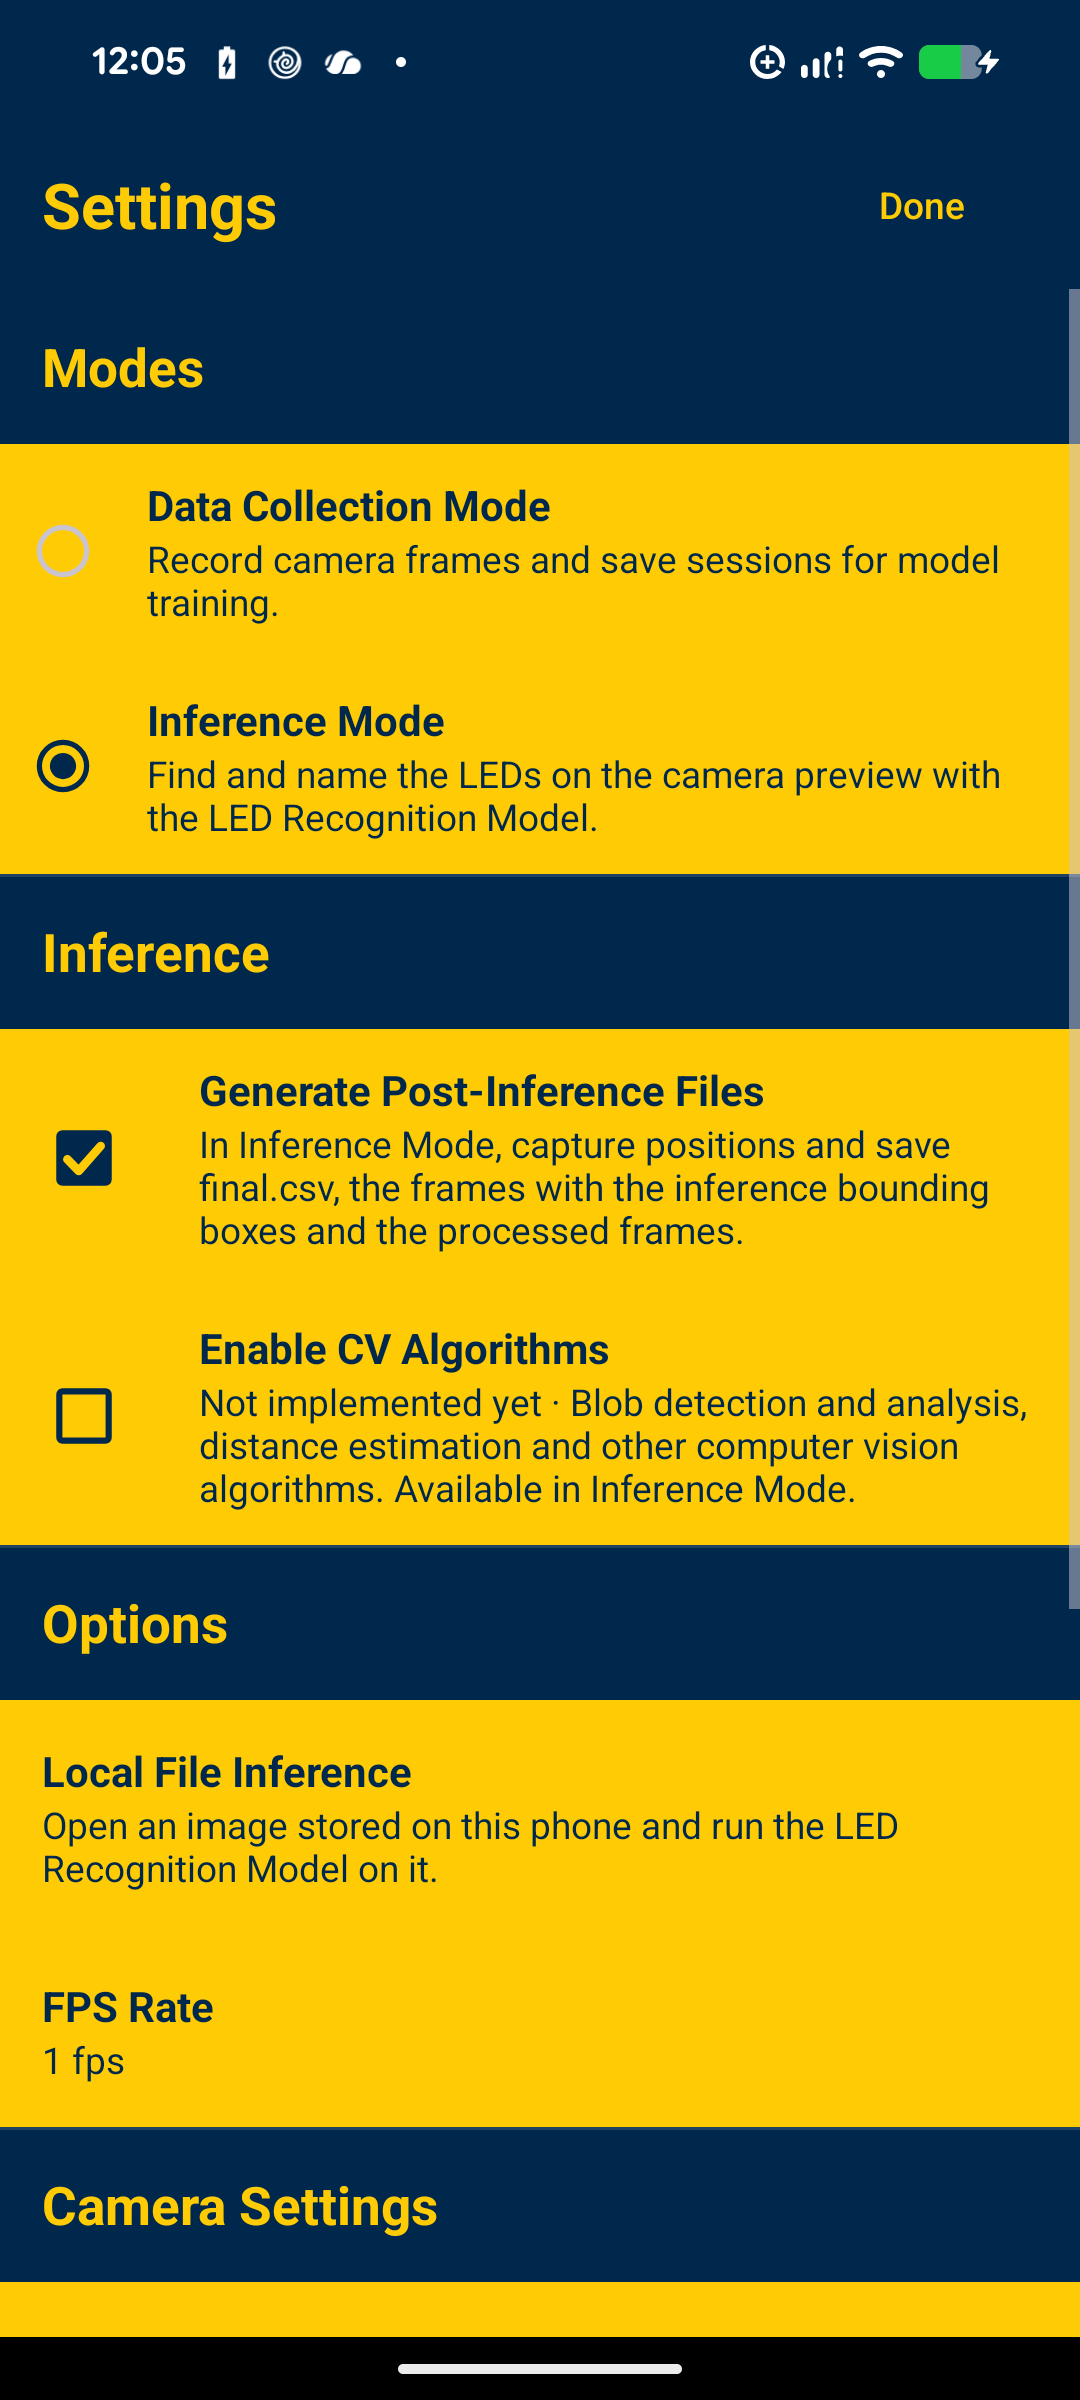
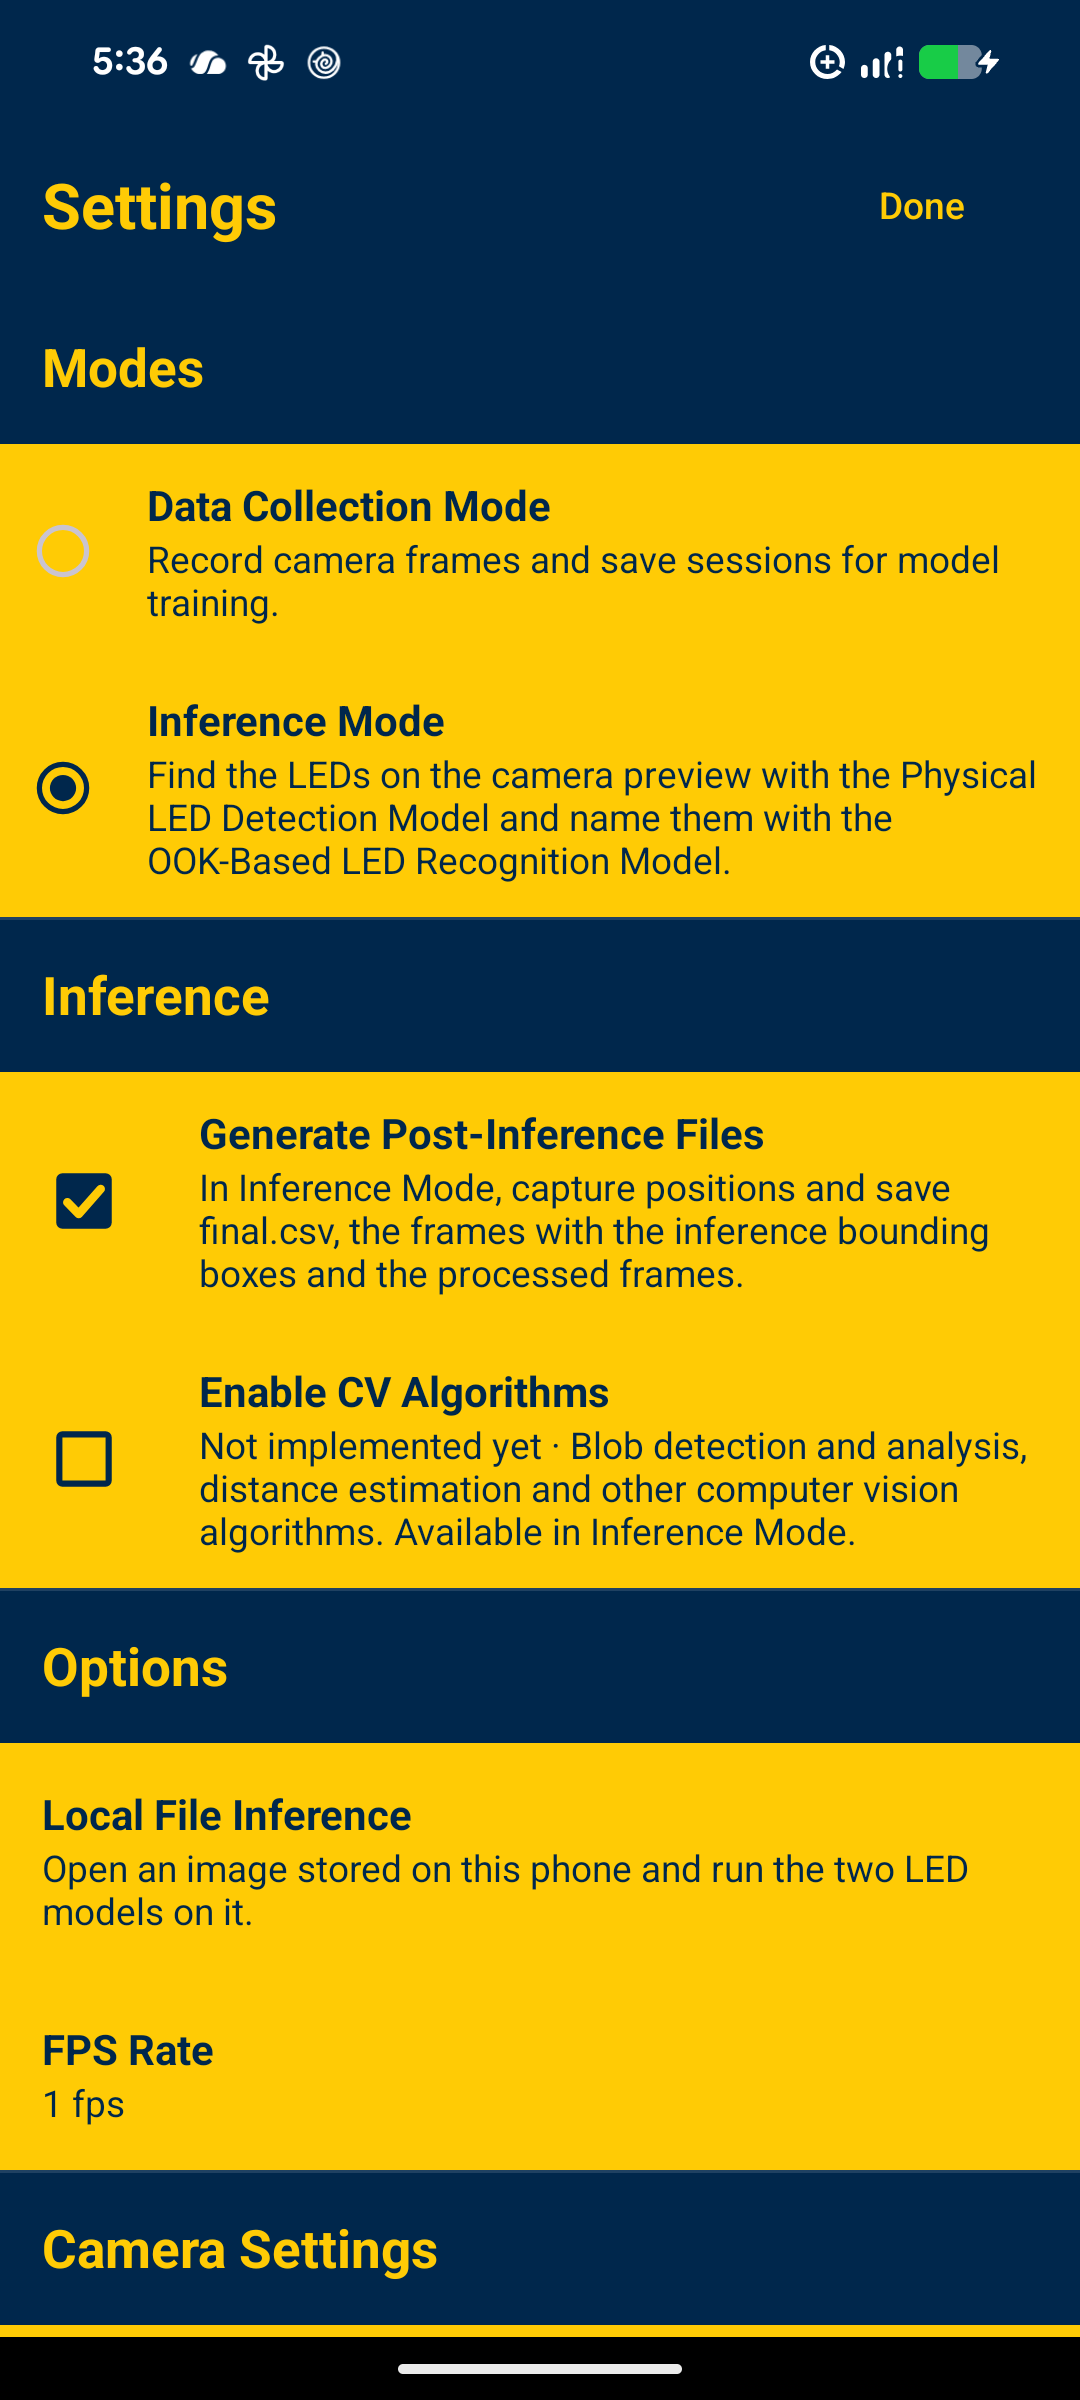
<DKA - November 17th 2026> {Retake the screenshots for the two LED models and record what was tried on the phone}
Screenshots 7, 11, 13 and 14 are retaken on the Pixel 8a with version 1.2.0:
Settings in both modes, Information in Inference Mode and Local File
Inference, which now names the four LEDs of the test frame with the two
models.

The README now says what ran on the phone: Inference Mode on the live preview
and a 30-frame capture with its post-inference files, both with no LEDs in
view, and Local File Inference on a test frame.

Changed region(s): [[0.0, 0.125, 1.0, 0.9688], [0.0917, 0.0, 0.3361, 0.0312], [0.7028, 0.0, 0.825, 0.0312]]

diff --git a/README.md b/README.md
@@ -102,7 +102,7 @@ Choose **Settings → Modes → Inference Mode**. The camera screen stays as it 
 - **The models.** Both are in `app/src/main/assets` as the TorchScript exports of their training notebooks. The app loads them as they are with PyTorch (`org.pytorch:pytorch_android`), so a newly trained export can replace either file without conversion. `qvlp_physical_led_detection_model.pt` is a YOLO26n network trained on Q-VLP frames (1280 × 960) with one class, `LED Detected`. It takes a 1 × 3 × 960 × 1280 RGB picture with values from 0 to 1 and answers with 1 × 5 × 25200 values: centre, width, height and one score for each candidate. `qvlp_ook_led_recognition_model.pt` is a ResNet-50 network. It takes N × 3 × 128 × 640 RGB strips with values from 0 to 1, one strip per LED, and answers with N × 4 probabilities: for LED 1 (signal 1010), LED 2 (1100), LED 3 (1011) and LED 4 (1001).
 - **Frames.** The models are given camera frames in sensor-native orientation, converted to RGB exactly as saved frames are, which is how they were trained. The camera delivers the frames of the FPS rate, one a second by default and up to 30. At the faster rates one run takes longer than a frame, so a frame is taken whenever the models are free and the others are skipped; the boxes always belong to a recent frame, and an LED's five frames are the last five that were taken.
 - **Camera settings.** Both models were trained on frames taken at a 6000 Hz rolling shutter rate, the default. A very different rate or ISO changes how the LEDs look and can lower their confidence.
-- **Speed on a Pixel 8a.** Both models are large for a phone: the detection model because of its 1280 × 960 input, the recognition model because it is a ResNet-50. Measured on a still picture by the on-device test, finding the LEDs takes about 0.45 s and naming four LEDs about 1.8 s more. In a series of frames the LEDs are named at the first frame and at every fifth, so those frames take about 2.3 s and the others about 0.45 s. While the camera is running a run takes longer (the detection model alone took 0.7 to 1.2 s in version 1.1.0); the two models together have not been timed on the live preview or on a capture's post-inference files. The first run also loads the models.
+- **Speed on a Pixel 8a.** Both models are large for a phone: the detection model because of its 1280 × 960 input, the recognition model because it is a ResNet-50. Measured on a still picture by the on-device test, finding the LEDs takes about 0.45 s and naming four LEDs about 1.8 s more. In a series of frames the LEDs are named at the first frame and at every fifth, so those frames take about 2.3 s and the others about 0.45 s. On the live preview a frame with no LEDs in view takes 0.46 to 0.61 s, and the post-inference files of a 30-frame capture with no LEDs in view take about 30 s. Neither has been timed with LEDs in view, where naming adds its 1.8 s at the first frame and at every fifth. The first run also loads the models.
 - **Where a box can be.** The preview fills the screen and crops what does not fit, so an LED near the edge of the frame can be outside the visible preview. Its box is then off screen; the saved inference frames always show the whole frame.
 
 ### Post-inference files
@@ -270,7 +270,7 @@ This is the capture, LED-detection and LED-recognition workflow, not a full impl
 - Validate LED detection under the real LEDs: thresholds, the camera-reported row time and centroid repeatability have only been checked on simulated frames.
 - Add a settings screen for the detection thresholds and LED frequencies, a row-time calibration mode, and a live preview overlay of detected blobs. The document's `fingerprints.csv` (with per-LED counts and standard deviations) is not generated; `final.csv` carries the core fingerprint columns.
 - The on-device (instrumented) tests were updated for the new session layout but have not been run on a phone, except `LedRecognitionDeviceTest`, which runs both models on a frame of the test dataset and passes on a Pixel 8a.
-- Try Inference Mode under the real LEDs. On the phone, the two models have been run by the device test only, on a frame of the test dataset: as one picture, as a series of frames, and through the path that writes a capture's post-inference files. Inference Mode itself, a capture in it and Local File Inference have not been opened on the phone since the two models replaced the earlier single model, and the boxes on the live preview have never been seen on real LEDs. Their position on the preview was checked against a saved frame for the front camera only, in version 1.1.0.
+- Try Inference Mode under the real LEDs. On a Pixel 8a, Inference Mode ran on the live preview and through a 30-frame capture with its post-inference files and `final.csv` (30 of 30 frames saved), but with no LEDs in view, so only the detection model ran there. Both models ran on the phone on a frame of the test dataset: in Local File Inference, which named its four LEDs, and in the device test, as one picture, as a series of frames, and through the path that writes a capture's post-inference files. The boxes on the live preview have therefore still not been seen on real LEDs. Their position on the preview was checked against a saved frame for the front camera only, in version 1.1.0.
 - **FPS Rate** was tried on a Pixel 8a front camera at 1, 7, 15, 29 and 30 fps: the camera was ready at each and reported 1.000, 7.000, 14.998, 28.999 and 29.990 fps. Captures of 30 frames at 1 fps saved 30 of 30 frames in both modes. The rear camera and other phones were not tried.
 - On the 200 test frames, taken at two camera positions neither model was trained on, the app's rules find and name all 800 labelled LEDs, name none wrongly and put no box anywhere else. The detection model's lowest confidence there is 87%, and the recognition model's lowest probability for a right name is 89%. This was computed on a computer, with the two model files and the app's rules step for step; on the phone the same answers were confirmed for one of these frames.
 - The recognition model may be telling the LEDs apart by how each one looks rather than by the signal it sends. In its training data every LED has its own look and its own signal, so the data cannot separate the two, and the model names the LEDs of the test sequences just as well from five copies of one frame as from five different frames (100 of 100 either way). Whether it reads the OOK signal can only be shown with recordings in which the same LED sends different signals.
